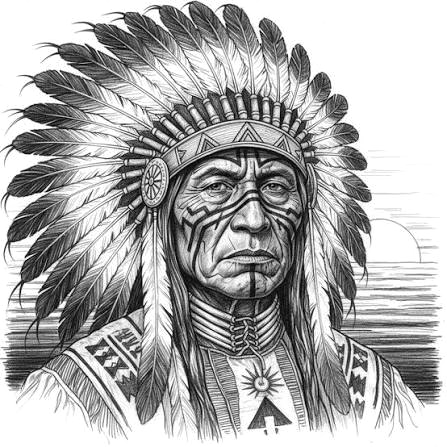
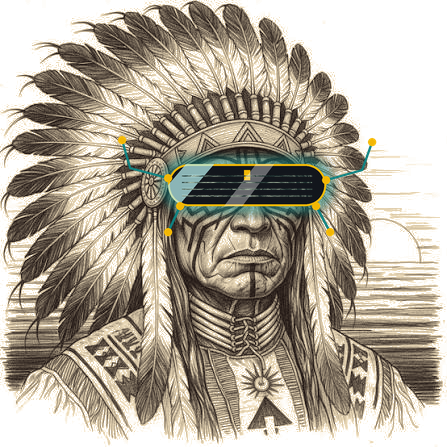
Cyber visor on chief, centered hero layout, trimmed copy

diff --git a/index.html b/index.html
@@ -100,14 +100,13 @@
   }
   .hero-inner{ position:relative; z-index:5; max-width:820px; padding:0 20px; }
   .hero-character{
-    position:absolute; right:1%; top:50%; transform:translateY(-46%);
-    width:300px; z-index:3; pointer-events:none;
-    -webkit-mask-image:linear-gradient(to bottom, black 0%, black 70%, transparent 97%);
-    mask-image:linear-gradient(to bottom, black 0%, black 70%, transparent 97%);
+    position:absolute; left:50%; top:2%; transform:translateX(-50%);
+    width:clamp(320px, 42vw, 580px); z-index:2; pointer-events:none; opacity:.94;
+    -webkit-mask-image:radial-gradient(ellipse 60% 55% at 50% 38%, black 55%, transparent 92%);
+    mask-image:radial-gradient(ellipse 60% 55% at 50% 38%, black 55%, transparent 92%);
   }
-  .hero-character img{ width:100%; height:auto; display:block; border-radius:20px; filter:drop-shadow(0 14px 26px rgba(0,0,0,.35)); }
-  @media (max-width:1200px){ .hero-character{ width:220px; } }
-  @media (max-width:940px){ .hero-character{ display:none; } }
+  .hero-character img{ width:100%; height:auto; display:block; }
+  @media (max-width:600px){ .hero-character{ width:80vw; top:0; } }
   .hero .eyebrow{
     display:inline-flex; align-items:center; background:var(--wine); color:var(--mustard);
     padding:6px 20px 6px 6px; border-radius:999px; font-weight:700; font-size:.8rem;
@@ -303,17 +302,17 @@
 </nav>
 
 <header class="hero">
+  <div class="hero-character" aria-hidden="true">
+    <img src="assets/img/cyber-indio.png" alt="Illustrated ancestral chief in a feather headdress, stylized with a cyber-futuristic visor">
+  </div>
   <div class="hero-inner">
-    <span class="eyebrow"><img class="loc-logo" src="assets/img/logo-10-13.jpg" alt="10/13 logo">Hotel Diez Treinta y Seis · Provenza, Poblado, Medellín</span>
     <h1>DANZAS ANCESTRALES<br>Y FUTURISTAS</h1>
     <div class="subtitle-es">a social-gathering to celebrate life</div>
+    <span class="eyebrow"><img class="loc-logo" src="assets/img/logo-10-13.jpg" alt="10/13 logo">Hotel Diez Treinta y Seis · Provenza, Poblado, Medellín</span>
     <div class="subtitle">Rooftop Sessions</div>
-    <p class="desc">Descalzos bajo las estrellas, guitarra y bajo compartiendo el aire. Every 15 days our rooftop turns into a free-spirited gathering — live rhythm, wellness, games, and a rotating cast of dancers, movement activators, yoga facilitators, and musicians. Open to all cultures, all backgrounds — digital nomads, Medellín locals, and the curious alike. Peace and community.</p>
+    <p class="desc">Every 15 days our rooftop turns into a free-spirited gathering — live rhythm, wellness, games, and a rotating cast of dancers, movement activators, yoga facilitators, and musicians. Open to all cultures, all backgrounds — digital nomads, locals, and the curious alike.</p>
     <a href="#schedule" class="btn btn-primary">Ver próximas fiestas</a>
     <a href="#about" class="btn btn-outline">La Movida ↓</a>
-  </div>
-  <div class="hero-character" aria-hidden="true">
-    <img src="assets/img/cyber-indio.png" alt="Illustrated ancestral chief in a feather headdress, stylized with a cyber-futuristic glow">
   </div>
 </header>
 <div class="scallop-top"></div>
